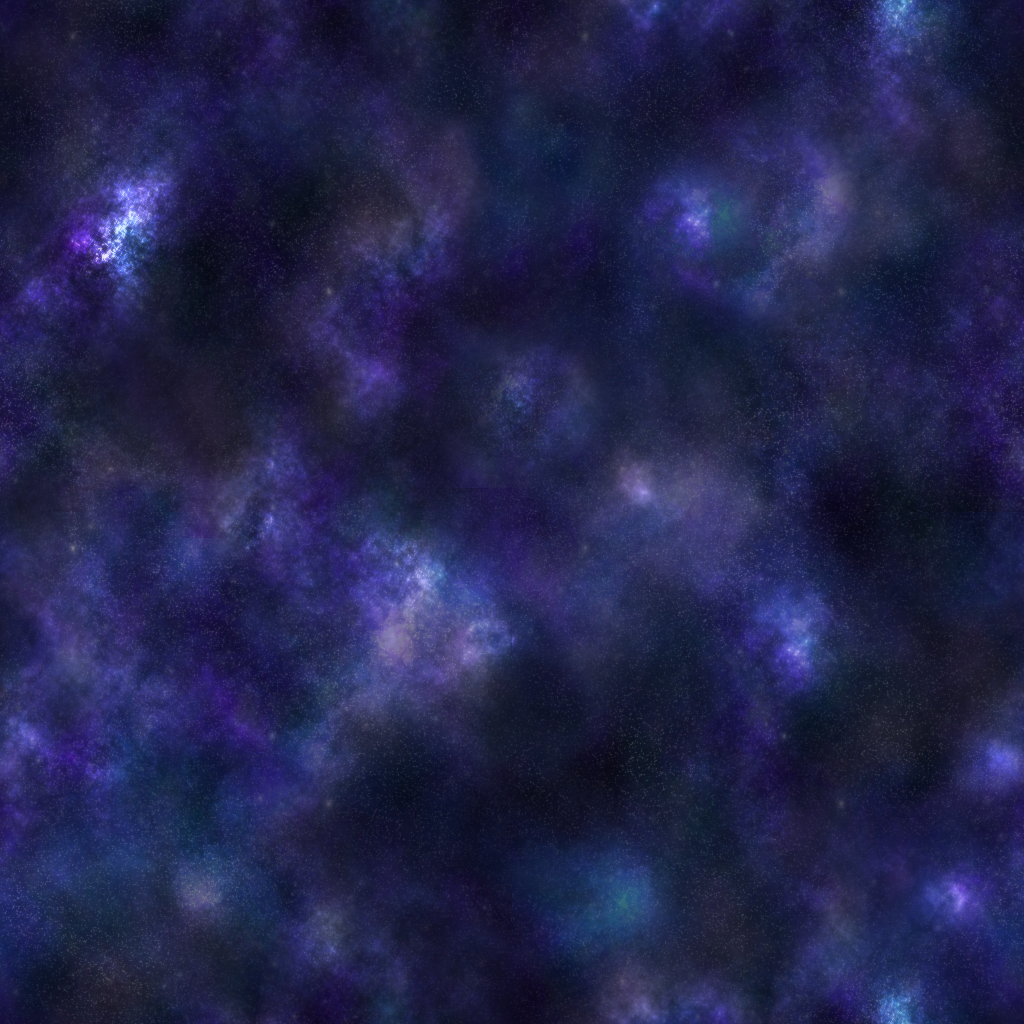
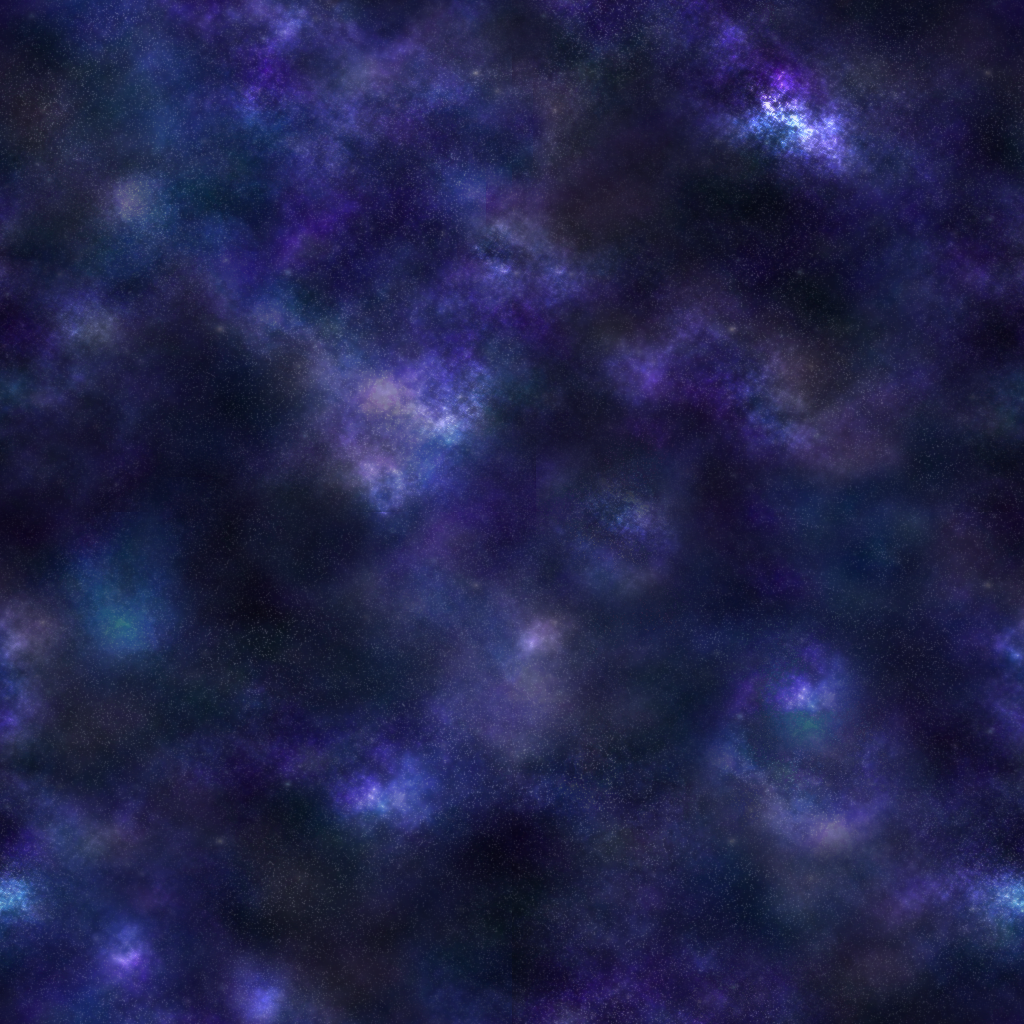
added responsive game window sizing and the start button on the start screen

diff --git a/src/gameApp/states/Start.js b/src/gameApp/states/Start.js
@@ -2,7 +2,7 @@ import Phaser from 'phaser';
 
 
 //Assets
-import background from '../assets/start.png';
+import background from '../assets/space.png';
 import alex from '../assets/alex.png';
 
 
@@ -21,7 +21,11 @@ export default class extends Phaser.State {
   create () {
     var background = this.game.add.sprite(0, 0, 'startBackground');
     background.height = this.game.height;
-    this.game.add.button(this.game.world.centerX - 100, 500, 'start', start,this);
+    var spriteHeight = this.game.height / 5;
+    var spriteWidth = this.game.width / 5;
+    var startButton = this.game.add.button(this.game.world.centerX - (spriteWidth / 2), this.game.world.centerY - (spriteWidth / 2), 'start', start,this);
+    startButton.height = spriteHeight;
+    startButton.width = spriteWidth;
 
     //Detect enter key and start game on press
     this.enterKey = this.game.input.keyboard.addKey(Phaser.Keyboard.ENTER);

diff --git a/src/gameApp/states/Game.js b/src/gameApp/states/Game.js
@@ -26,9 +26,9 @@ export default class extends Phaser.State {
     this.cursors = this.game.input.keyboard.createCursorKeys();
 
     //Spawns the Player
-    this.alex = this.game.add.sprite(350, 1000, 'spaceAlex');
-    this.alex.height = 200;
-    this.alex.width = 100;
+    this.alex = this.game.add.sprite(this.game.width/2, this.game.height, 'spaceAlex');
+    this.alex.height = "10%";
+    this.alex.width = "5%";
     this.game.physics.arcade.enable(this.alex);
     this.alex.body.collideWorldBounds = true;
     this.game.add.existing(this.alex)

diff --git a/src/gameApp/main.js b/src/gameApp/main.js
@@ -14,7 +14,7 @@ class Game extends Phaser.Game {
 
   constructor () {
 
-    super(800, 1200, Phaser.AUTO, "root", null);
+    super("85%", "90%", Phaser.AUTO, null);
 
     this.state.add('Start', StartState, false);
     this.state.add('Game', GameState, false);
